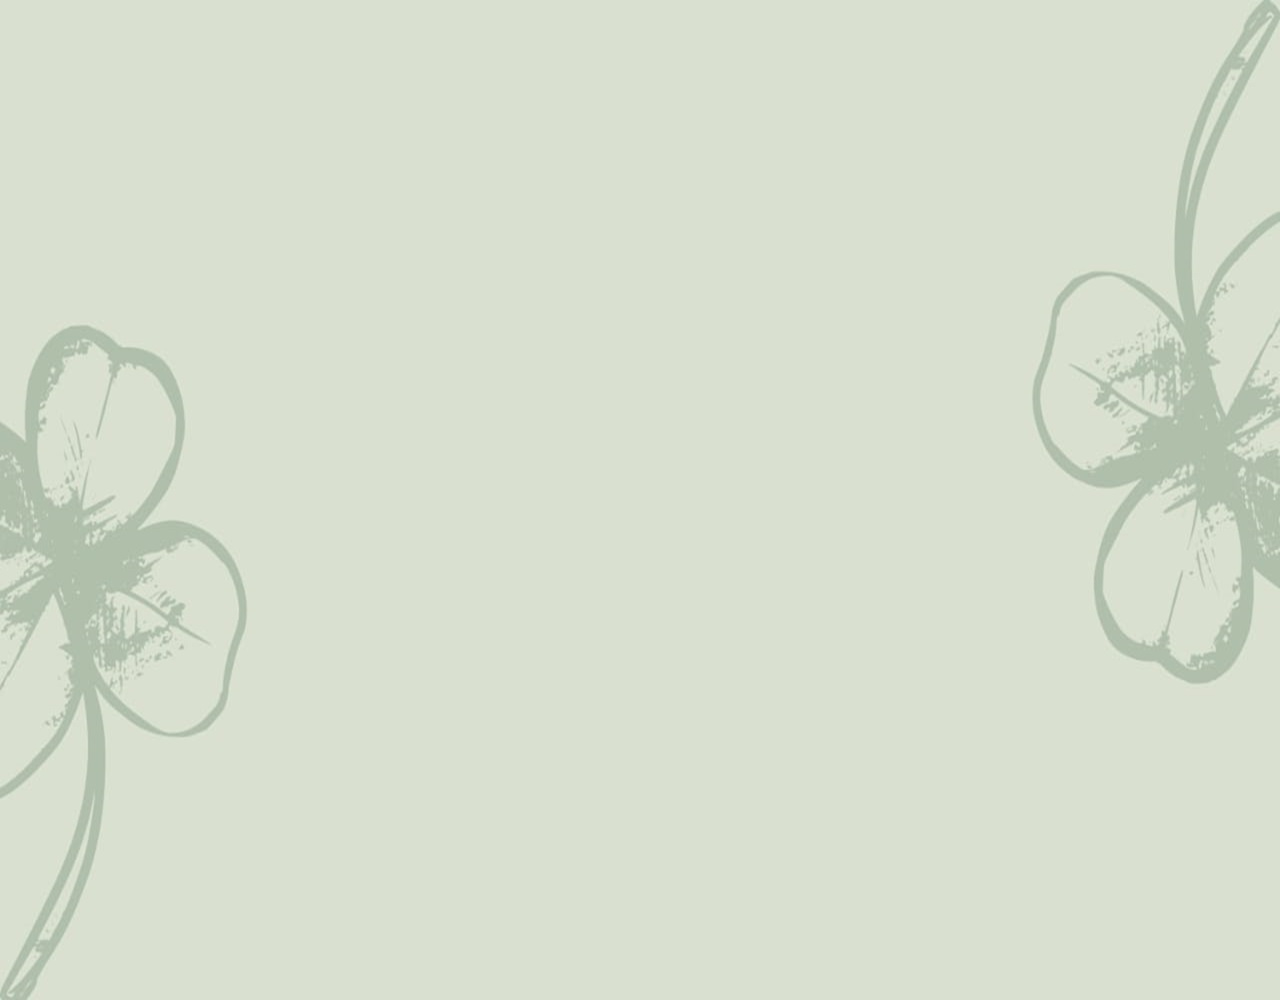
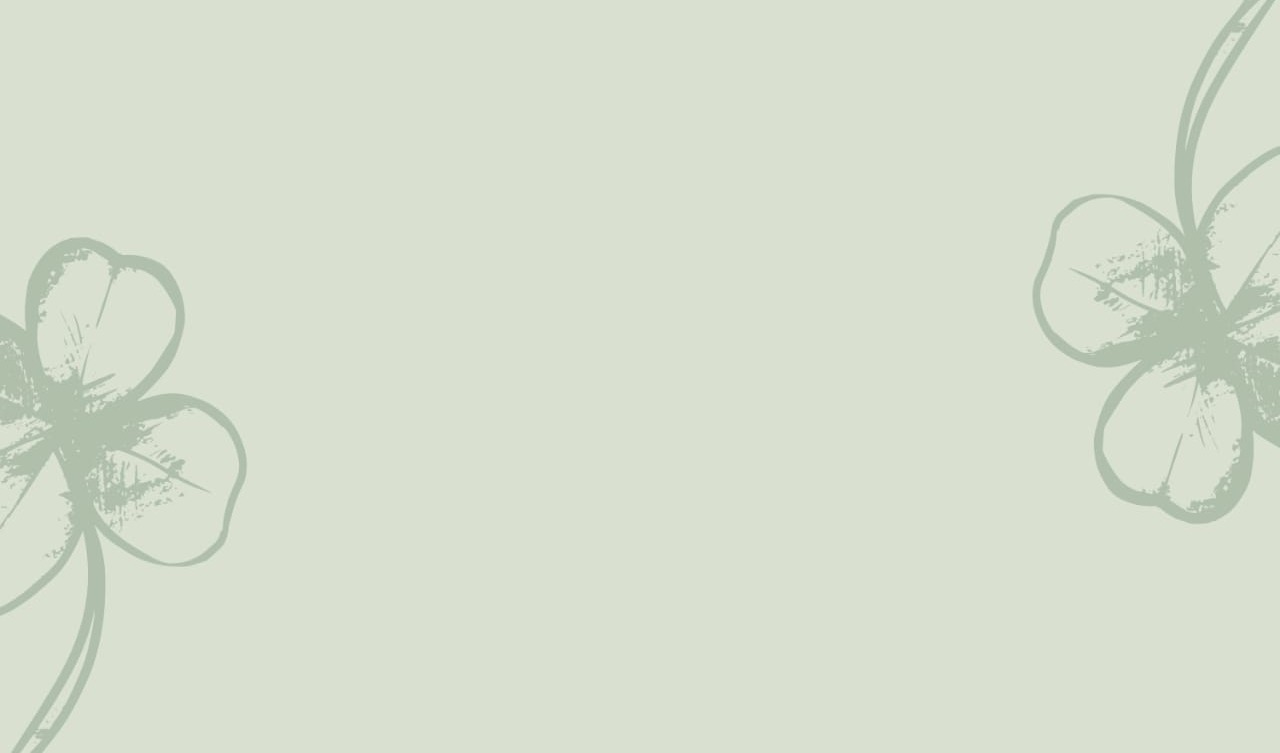
bg size fixed

diff --git a/app/contact/page.jsx b/app/contact/page.jsx
@@ -49,7 +49,13 @@ const ContactComponent = () => {
     };
 
     return (
-        <section className="bg-[url('/img/book1.jpg')]" >
+        <section  style={ {
+            backgroundImage: "url('/img/book1.jpg')",
+            backgroundSize: "100vw auto",
+            '@screen sm': { // Apply 100vw auto for screens equal to or larger than sm
+                backgroundSize: "none",
+              },
+          }}>
             <br /><br />
             <div className="py-16 lg:py-18 px-4 mx-auto max-w-screen-md">
                 <h2 className="mb-4 text-4xl tracking-tight font-extrabold text-center text-black">BOOK NOW! </h2>
